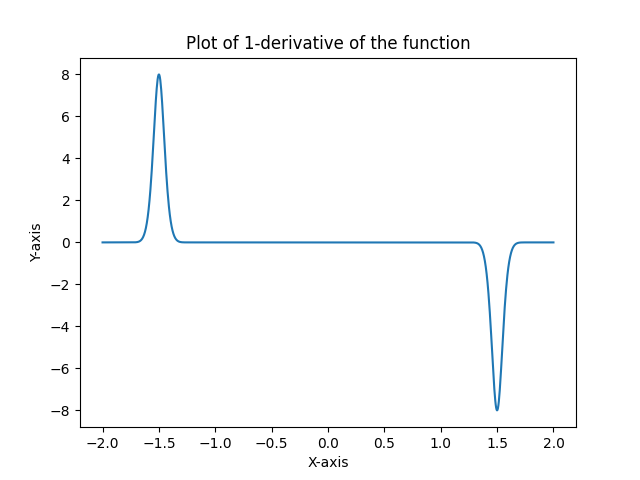
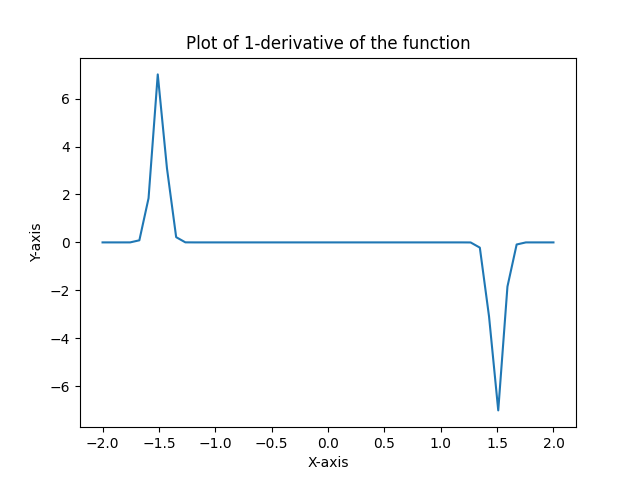
Task 4: Added the main and set cut to 50 (default)

diff --git a/task-4/task-4.py b/task-4/task-4.py
@@ -2,9 +2,10 @@ import numpy as np
 import matplotlib.pyplot as plt
 from scipy.misc import derivative as der
 
-cut = 1000
+cut = 50
 
 
+################################################################################
 def fn_plot1d(fn, x_min, x_max, filename):
     func = np.vectorize(fn, otypes=[float])
     x = np.linspace(x_min, x_max, num=cut, dtype=float)
@@ -34,6 +35,7 @@ def fn_plot2d(fn, x_min, x_max, y_min, y_max, filename):
     fig.savefig(filename)
 
 
+################################################################################
 def nth_derivative_plotter(fn, n, xmin, xmax, filename):
     dx = (xmax - xmin) / (2 * cut)
     func = np.vectorize(lambda x: der(fn, x0=x, dx=dx, n=n, order=3))
@@ -48,6 +50,7 @@ def nth_derivative_plotter(fn, n, xmin, xmax, filename):
     fig.savefig(filename)
 
 
+################################################################################
 def h(x):
     if x > 0:
         return np.exp(-1 / x**2)
@@ -68,15 +71,18 @@ def b(x):
         return g(-x)
 
 
+################################################################################
 def sinc(x, y):
     sq = (x**2 + y**2)**0.5
     if sq > 0:
         return np.sin(sq) / sq
     else:
         return 1
+################################################################################
 
 
-fn_plot1d(b, -2, 2, 'fn1plot.png')
-fn_plot2d(sinc, -1.5 * np.pi, 1.5 * np.pi, -1.5 * np.pi, 1.5 * np.pi, 'fn2plot.png')
-nth_derivative_plotter(b, 1, -2, 2, 'bd_1.png')
-nth_derivative_plotter(b, 2, -2, 2, 'bd_2.png')
+if __name__ == '__main__':
+    fn_plot1d(b, -2.0, 2.0, 'fn1plot.png')
+    fn_plot2d(sinc, -1.5 * np.pi, 1.5 * np.pi, -1.5 * np.pi, 1.5 * np.pi, 'fn2plot.png')
+    nth_derivative_plotter(b, 1, -2.0, 2.0, 'bd_1.png')
+    nth_derivative_plotter(b, 2, -2.0, 2.0, 'bd_2.png')
